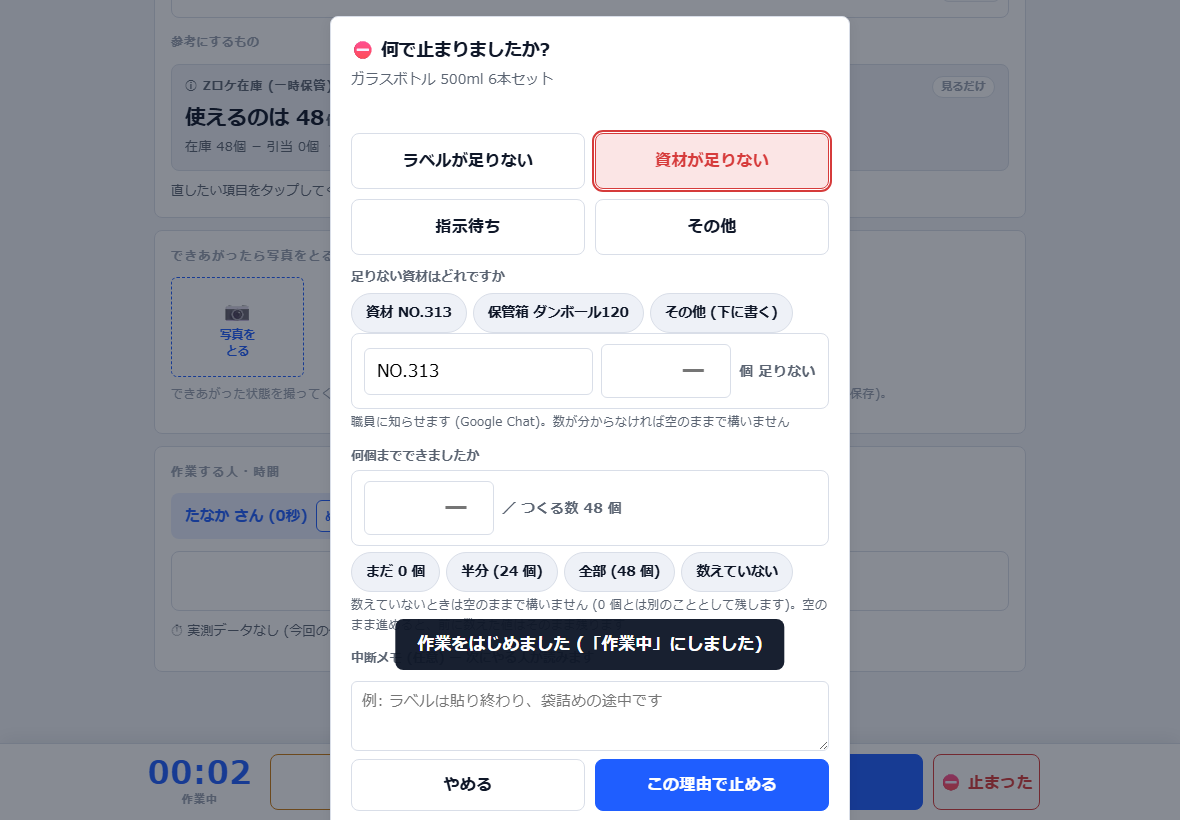
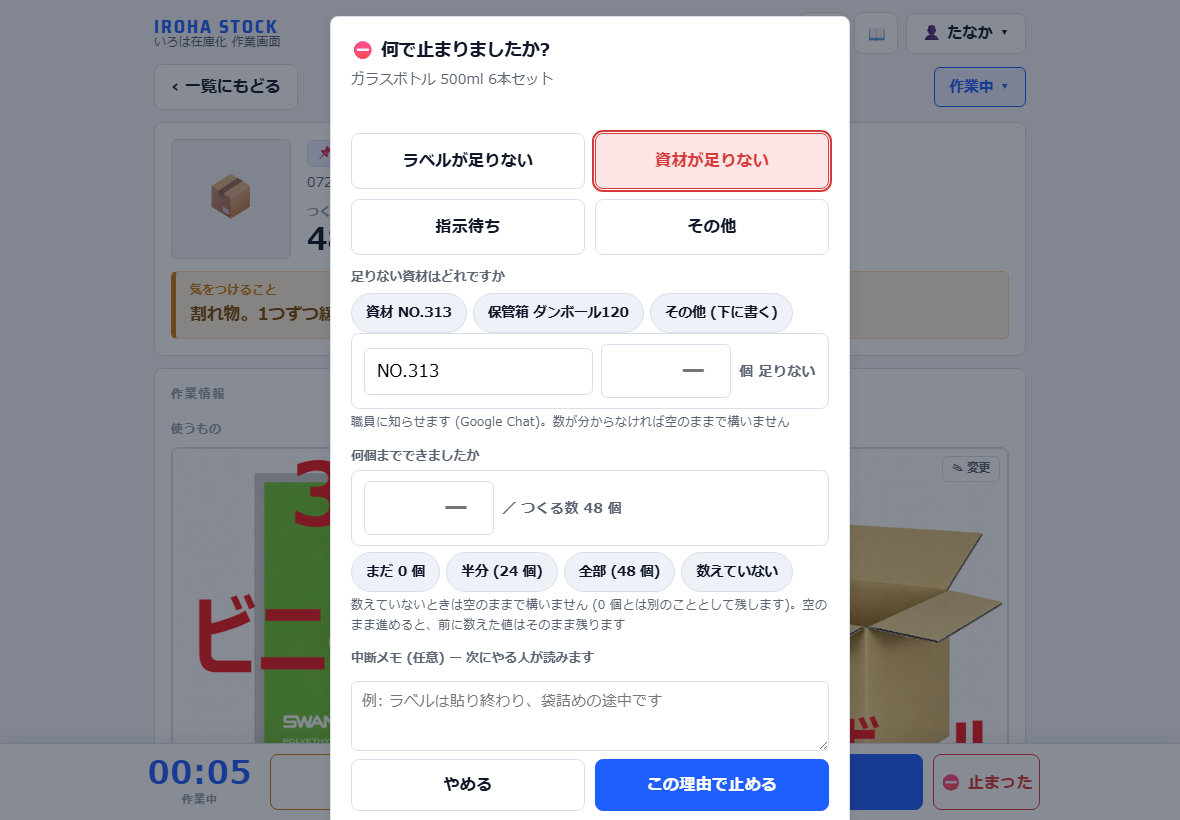
Codex レビュー対応 (PR #1213): 通知は「試みる」・もどせる範囲を分ける・職員モードの説明・alt を具体的に・札のコントラスト。m08 を撮り直し

diff --git a/apps/iroha-work/views/manual.html b/apps/iroha-work/views/manual.html
@@ -44,7 +44,7 @@
   .tag.red{background:var(--danger-soft);color:var(--danger);border:1px solid var(--danger)}
   .tag.blue{background:var(--accent-soft);color:var(--accent)}
   .tag.green{background:var(--ok-soft);color:var(--ok)}
-  .tag.amber{background:var(--amber-soft);color:var(--amber)}
+  .tag.amber{background:var(--amber-soft);color:#8A4B00}   /* 小さい文字でも読めるコントラスト (Codex) */
   kbd{display:inline-block;border:1px solid var(--line);border-bottom-width:2px;border-radius:8px;padding:2px 10px;background:var(--surface);font-family:var(--font);font-weight:700;font-size:.95em}
   .callout{border-left:4px solid var(--accent);background:var(--accent-soft);padding:10px 14px;border-radius:8px;margin:10px 0;font-size:1rem}
   .callout.warn{border-color:var(--amber);background:var(--amber-soft)}
@@ -87,7 +87,7 @@
       <li><b>じぶんの名前</b>をおします。</li>
       <li>右上に名前が出ます。まちがえたら右上の名前をおして替えます。</li>
     </ol>
-    <figure><img src="/app-images/iroha-work/manual/m01-gate.png" alt="名前をえらぶ画面" loading="lazy"><figcaption>最初の画面。名前をおすだけ。</figcaption></figure>
+    <figure><img src="/app-images/iroha-work/manual/m01-gate.png" alt="名前をえらぶ画面: 利用者と職員の名前のボタンが並んでいる" loading="lazy"><figcaption>最初の画面。名前をおすだけ。</figcaption></figure>
     <div class="callout">作業する人は、はじめるときに<b>別にえらべます</b> (何人でも)。ここでえらぶのは「この iPad をさわっている人」です。</div>
   </section>
 
@@ -98,8 +98,8 @@
       <li>上のタブ: <kbd>📌 今日やる</kbd> (朝いちばんに見る) / <kbd>すべて</kbd> / <kbd>未着手</kbd> / <kbd>作業中</kbd> / <kbd>棚入待ち</kbd> / <kbd>⛔ 止まっている</kbd> / <kbd>止まっていない</kbd></li>
       <li>カードをおすと、くわしい画面が開きます。</li>
     </ol>
-    <figure><img src="/app-images/iroha-work/manual/m02-list.png" alt="一覧" loading="lazy"><figcaption>一覧。上のタブで絞れます。</figcaption></figure>
-    <figure><img src="/app-images/iroha-work/manual/m03-card.png" alt="カード 1 枚" loading="lazy"><figcaption>カード 1 枚の読みかた。</figcaption></figure>
+    <figure><img src="/app-images/iroha-work/manual/m02-list.png" alt="一覧: 上に すべて・今日やる・未着手・作業中・棚入待ち・止まっている のタブ、下にカードが並ぶ" loading="lazy"><figcaption>一覧。上のタブで絞れます。</figcaption></figure>
+    <figure><img src="/app-images/iroha-work/manual/m03-card.png" alt="カード 1 枚: 商品名、今日やる と はじめての商品 の札、48 個・2 箱・約 12 分、右に状態のボタン" loading="lazy"><figcaption>カード 1 枚の読みかた。</figcaption></figure>
     <ul class="notes">
       <li><b>48 個</b> = つくる数。<b>📦 2 箱</b> = 用意する保管箱の数。<b>⏱ 約 12 分</b> = かかる時間のめやす。</li>
       <li><span class="tag blue">📌 今日やる</span> 今日やる予定。<span class="tag green">🌱 はじめての商品</span> この商品ははじめて (前の写真がありません)。</li>
@@ -119,10 +119,10 @@
       <li><kbd>▶ N人で作業をはじめる</kbd> をおすと、タイマーが動きます。</li>
     </ol>
     <div class="two">
-      <figure><img src="/app-images/iroha-work/manual/m04-detail.png" alt="カードの中" loading="lazy"><figcaption>カードを開いたところ。</figcaption></figure>
-      <figure><img src="/app-images/iroha-work/manual/m06-crew.png" alt="作業する人をえらぶ" loading="lazy"><figcaption>作業する人をえらぶ。何人でも。</figcaption></figure>
+      <figure><img src="/app-images/iroha-work/manual/m04-detail.png" alt="カードの中: つくる数・必要保管箱・想定作業時間、気をつけること、使うもの (資材と保管箱の写真)、下に 作業をはじめる のバー" loading="lazy"><figcaption>カードを開いたところ。</figcaption></figure>
+      <figure><img src="/app-images/iroha-work/manual/m06-crew.png" alt="作業する人をえらぶダイアログ: 利用者と職員の名前にチェック、下に N人で作業をはじめる のボタン" loading="lazy"><figcaption>作業する人をえらぶ。何人でも。</figcaption></figure>
     </div>
-    <figure><img src="/app-images/iroha-work/manual/m05-bar.png" alt="下の固定バー" loading="lazy"><figcaption>いちばん下のバー。ここから「はじめる」「止まった」。</figcaption></figure>
+    <figure><img src="/app-images/iroha-work/manual/m05-bar.png" alt="下の固定バー: 青い 作業をはじめる と、赤い 止まった" loading="lazy"><figcaption>いちばん下のバー。ここから「はじめる」「止まった」。</figcaption></figure>
     <div class="callout warn">「⚠ 工程が未登録」のカードは、分かるなら先に「＋ 登録」してください (分からなければそのまま始めてもよいです)。</div>
   </section>
 
@@ -134,7 +134,7 @@
       <li>みんなで休けい: 下のバーの <kbd>⏸ ひとやすみ</kbd>。もどったら <kbd>▶ 作業をはじめる</kbd>。</li>
       <li>人がふえたら <kbd>＋ 人を追加</kbd>。</li>
     </ol>
-    <figure><img src="/app-images/iroha-work/manual/m07-working.png" alt="作業中の画面" loading="lazy"><figcaption>作業中。名前と時間が出ます。</figcaption></figure>
+    <figure><img src="/app-images/iroha-work/manual/m07-working.png" alt="作業中: 作業する人の名前と経過時間、ぬける のボタン、人を追加" loading="lazy"><figcaption>作業中。名前と時間が出ます。</figcaption></figure>
   </section>
 
   <section id="s5">
@@ -143,11 +143,11 @@
     <ol class="steps">
       <li>下のバーの赤い <kbd>⛔ 止まった</kbd> をおします。</li>
       <li>理由を 1 つえらびます: <b>ラベルが足りない</b> / <b>資材が足りない</b> / <b>指示待ち</b> / <b>その他</b>。</li>
-      <li><b>資材が足りない</b>のときは、どの資材が何個足りないかをおして (書いて) ください。<b>職員に自動で連絡が行きます</b>。</li>
+      <li><b>資材が足りない</b>のときは、どの資材が何個足りないかをおして (書いて) ください。職員への連絡を<b>自動で試みます</b> (届かないこともあるので、急ぐときは直接声をかけてください)。</li>
       <li>何個までできたか (分かれば) と、次にやる人へのメモを書いて <kbd>この理由で止める</kbd>。タイマーは止まります。</li>
       <li>解消したら、いつもどおり <kbd>▶ 作業をはじめる</kbd>。「解消しましたか?」に「はい」で札が外れます。</li>
     </ol>
-    <figure><img src="/app-images/iroha-work/manual/m08-block.png" alt="止まった理由をえらぶ" loading="lazy"><figcaption>「資材が足りない」をえらんだところ。</figcaption></figure>
+    <figure><img src="/app-images/iroha-work/manual/m08-block.png" alt="止まった理由のダイアログ: 資材が足りない を選び、足りない資材と数、何個までできたか、メモを入れる" loading="lazy"><figcaption>「資材が足りない」をえらんだところ。</figcaption></figure>
   </section>
 
   <section id="s6">
@@ -159,7 +159,7 @@
       <li>できあがった状態の<b>写真をとる</b> (次に同じ商品を作る人の見本になります。3 枚まで)。</li>
       <li>棚に入れ終わったら、<b>職員</b>が「棚入完了」にします。</li>
     </ol>
-    <figure><img src="/app-images/iroha-work/manual/m10-done.png" alt="できあがり" loading="lazy"><figcaption>できあがりのダイアログ。数を確かめて「棚入待ちにする」。</figcaption></figure>
+    <figure><img src="/app-images/iroha-work/manual/m10-done.png" alt="できあがりのダイアログ: 何個できましたか、まちがえた、棚入待ちにする" loading="lazy"><figcaption>できあがりのダイアログ。数を確かめて「棚入待ちにする」。</figcaption></figure>
   </section>
 
   <section id="s7">
@@ -170,7 +170,7 @@
       <li>「できあがり」をまちがえたら、ダイアログの <kbd>← まちがえた (まだ作業中)</kbd>。</li>
       <li>時間がたってしまったら、もう一度 <kbd>▶ 作業をはじめる</kbd> でつづきを始められます。</li>
     </ol>
-    <figure><img src="/app-images/iroha-work/manual/m09-undo.png" alt="もどす" loading="lazy"><figcaption>黒い帯の「もどす」。</figcaption></figure>
+    <figure><img src="/app-images/iroha-work/manual/m09-undo.png" alt="画面下の黒い帯: 〜さんが抜けました と もどす のボタン" loading="lazy"><figcaption>黒い帯の「もどす」。</figcaption></figure>
   </section>
 
   <section id="s8">
@@ -181,7 +181,7 @@
       <li><b>文字を大きく</b>: 右上の <kbd>あ⁺</kbd>。おすごとに 大 → 特大 → ふつう。この iPad におぼえます。</li>
       <li><b>ボード</b>: 未着手・作業中・棚入待ちを横に並べて見る画面。上の「予定」で 今日やる／止まっている などに絞れます。</li>
     </ol>
-    <figure><img src="/app-images/iroha-work/manual/m11-board.png" alt="ボード" loading="lazy"><figcaption>ボード。左から 未着手・作業中・棚入待ち。</figcaption></figure>
+    <figure><img src="/app-images/iroha-work/manual/m11-board.png" alt="ボード: 未着手・作業中・棚入待ち の 3 列にカードが並ぶ" loading="lazy"><figcaption>ボード。左から 未着手・作業中・棚入待ち。</figcaption></figure>
   </section>
 
   <section id="s9">
@@ -191,7 +191,7 @@
       <li>上の <kbd>📚 履歴</kbd> → <kbd>📅 きょうのみんなの作業</kbd>。</li>
       <li>人ごとに、商品と時間が出ます。じぶんの分がいちばん上。<kbd>きのう</kbd> や日付で前の日も見られます。</li>
     </ol>
-    <figure><img src="/app-images/iroha-work/manual/m17-daily.png" alt="きょうのみんなの作業" loading="lazy"><figcaption>人 × 商品 × 時間。</figcaption></figure>
+    <figure><img src="/app-images/iroha-work/manual/m17-daily.png" alt="きょうのみんなの作業: 人ごとに商品と時間が並ぶ" loading="lazy"><figcaption>人 × 商品 × 時間。</figcaption></figure>
   </section>
 
   <div class="staffnote">ここからは職員の方向けです。</div>
@@ -204,13 +204,13 @@
       <li>30 分たつか、右上の名前を<b>別の人に替えると終わります</b> (利用者に替えた瞬間に職員の操作は消えます)。</li>
       <li>PIN を入れた本人だけの職員モードです。別の職員はその人の PIN で入り直します。</li>
     </ol>
-    <figure><img src="/app-images/iroha-work/manual/m12-staff-pin.png" alt="職員PIN" loading="lazy"><figcaption>職員PIN のダイアログ。</figcaption></figure>
+    <figure><img src="/app-images/iroha-work/manual/m12-staff-pin.png" alt="職員PIN を入れるダイアログ" loading="lazy"><figcaption>職員PIN のダイアログ。</figcaption></figure>
     <div class="callout warn">共用 iPad ではポータル (PC 用の管理画面) にログインしないでください。ログインが残っていると、利用者に替えても職員の権限が残ります。</div>
   </section>
 
   <section id="s11" class="staff">
     <h2><span class="no">11</span>計画 (どこが・いつ)</h2>
-    <p class="why">なぜ: 「どこが (どの施設が) やるか」「いつやるか」を決めるのは職員の仕事。利用者の画面には決まったものだけ出ます。</p>
+    <p class="why">なぜ: 「どこが (どの施設が) やるか」「いつやるか」を決めるのは職員の仕事。利用者の画面では決まった予定を見られますが、変えられるのは職員だけです。</p>
     <ol class="steps">
       <li>ボードのカードの <kbd>どこが 未定</kbd> をおす → いろは／羅針盤／ワークセンター／ジョブサポ／パレット／未定にする。</li>
       <li><kbd>いつ 未定</kbd> をおす → <b>📌 今日やる</b>／明日やる／未定にする。</li>
@@ -218,10 +218,10 @@
       <li>カードの中の <kbd>📌 今日やる</kbd> でも今日の予定に入れられます。</li>
     </ol>
     <div class="two">
-      <figure><img src="/app-images/iroha-work/manual/m13-board-staff.png" alt="職員のボード" loading="lazy"><figcaption>職員モードのボード。札がボタンになります。</figcaption></figure>
-      <figure><img src="/app-images/iroha-work/manual/m14-when.png" alt="いつをえらぶ" loading="lazy"><figcaption>「いつ」をえらぶ。</figcaption></figure>
+      <figure><img src="/app-images/iroha-work/manual/m13-board-staff.png" alt="職員モードのボード: どこが・いつ の札がボタンになり、棚入待ちのカードに 棚入完了 のボタン" loading="lazy"><figcaption>職員モードのボード。札がボタンになります。</figcaption></figure>
+      <figure><img src="/app-images/iroha-work/manual/m14-when.png" alt="いつをえらぶダイアログ: 今日やる・明日やる・未定にする" loading="lazy"><figcaption>「いつ」をえらぶ。</figcaption></figure>
     </div>
-    <figure><img src="/app-images/iroha-work/manual/m15-plan.png" alt="明日の計画" loading="lazy"><figcaption>明日の計画。左の候補から右へ。</figcaption></figure>
+    <figure><img src="/app-images/iroha-work/manual/m15-plan.png" alt="明日の計画: 左に候補、右に明日やる分、上に時間のゲージ" loading="lazy"><figcaption>明日の計画。左の候補から右へ。</figcaption></figure>
   </section>
 
   <section id="s12" class="staff">
@@ -233,7 +233,7 @@
       <li><b>ラベル待ち</b>: 利用者が「ラベルが足りない」で止めると記録が自動で開きます。発注・本社連絡・入庫完了・完了は職員が <kbd>🏷 ラベル待ち</kbd> タブから記録します。「完了」にすると札が外れます。</li>
       <li><b>止まっているカード</b>: 資材が届いたら、そのカードで <kbd>▶ 作業をはじめる</kbd> → 「はい、解消した」で札が外れます。作業を始めずに札だけ外すときは、カードの上の赤い枠の <kbd>札を外す (職員)</kbd>。</li>
     </ol>
-    <figure><img src="/app-images/iroha-work/manual/m16-stock-confirm.png" alt="棚入完了の確認" loading="lazy"><figcaption>棚入完了の確認。このあと PIN。</figcaption></figure>
+    <figure><img src="/app-images/iroha-work/manual/m16-stock-confirm.png" alt="棚入完了の確認ダイアログ: はい、棚入完了にする" loading="lazy"><figcaption>棚入完了の確認。このあと PIN。</figcaption></figure>
   </section>
 
   <section id="s13" class="staff">
@@ -255,7 +255,8 @@
       <li><b>「サーバーにつながりません」</b>と出る: 前回の一覧を表示しています。少し待つと自動でつなぎ直します。数分たっても直らなければ職員へ。</li>
       <li><b>ボタンが出ない</b>: その人にはできない操作です (例: 計画・終了は職員だけ)。名前を替えるか、職員をよんでください。</li>
       <li><b>PIN を忘れた</b>: 管理画面の名簿で職員が設定し直します。</li>
-      <li><b>まちがって止めた・終わらせた</b>: 直後なら「もどす」。時間がたったら、もう一度「▶ 作業をはじめる」。職員は管理画面で記録を取り消せます。</li>
+      <li><b>まちがって止めた</b> (ぬける・ひとやすみ・⛔ 止まった・できあがり): 直後なら「もどす」か「← まちがえた」。時間がたったら、もう一度「▶ 作業をはじめる」でつづきを始められます。</li>
+      <li><b>まちがって棚入完了 (終了) にした</b>: カードは一覧から外れます。職員に伝えてください (職員がカードの状態を作業中に戻すか、管理画面で記録を取り消します)。</li>
       <li><b>カードが見つからない</b>: 一覧のタブが「今日やる」になっていないか確かめ、「すべて」にしてから検索。</li>
     </ul>
   </section>
